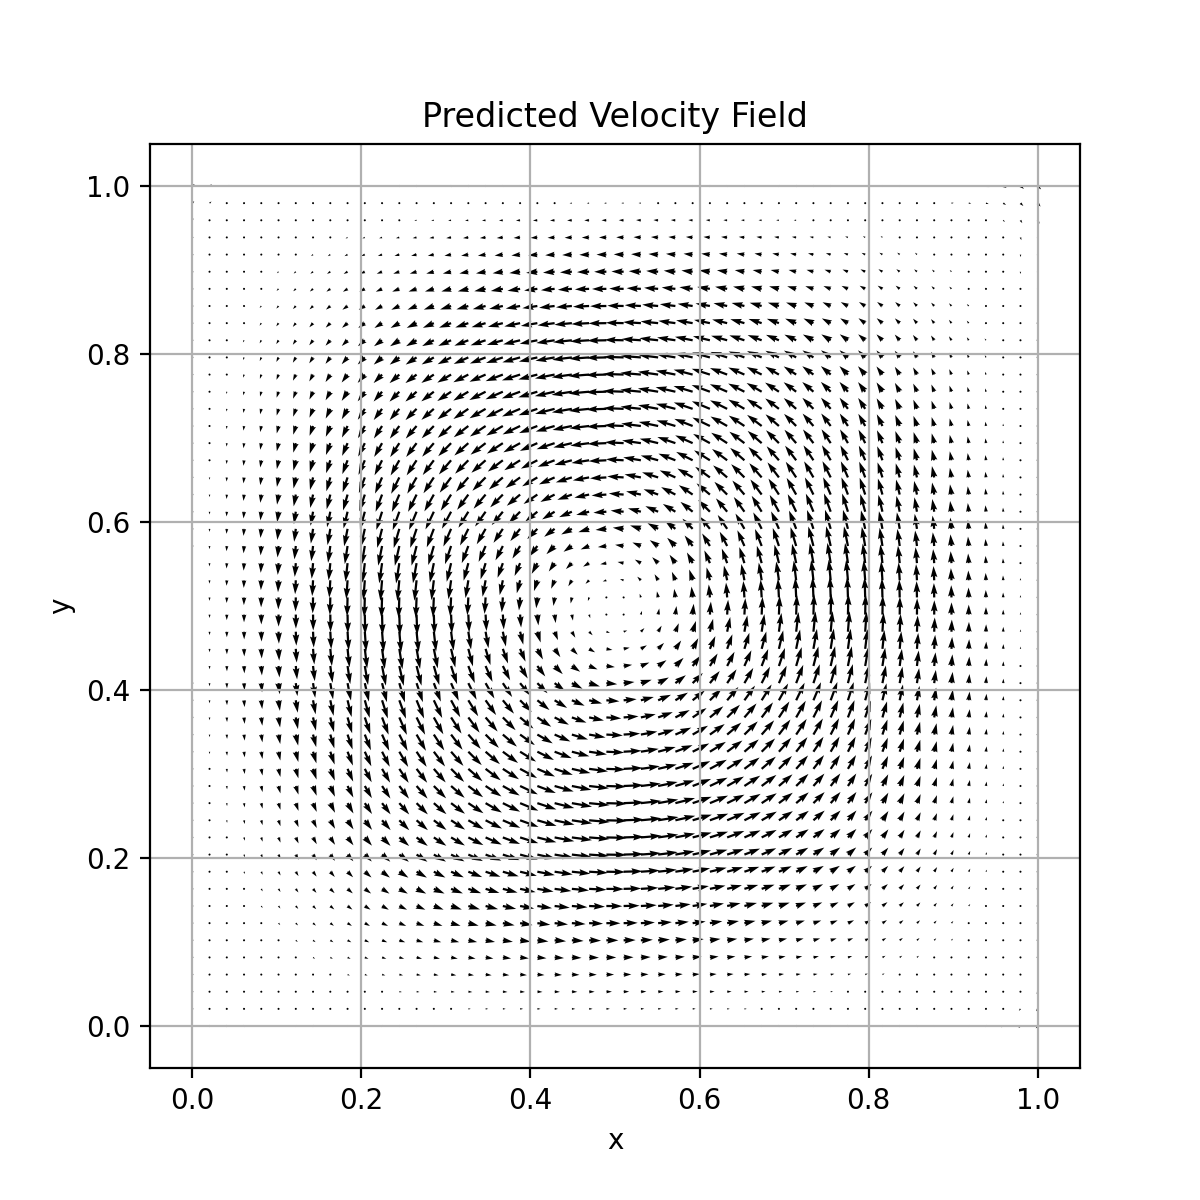
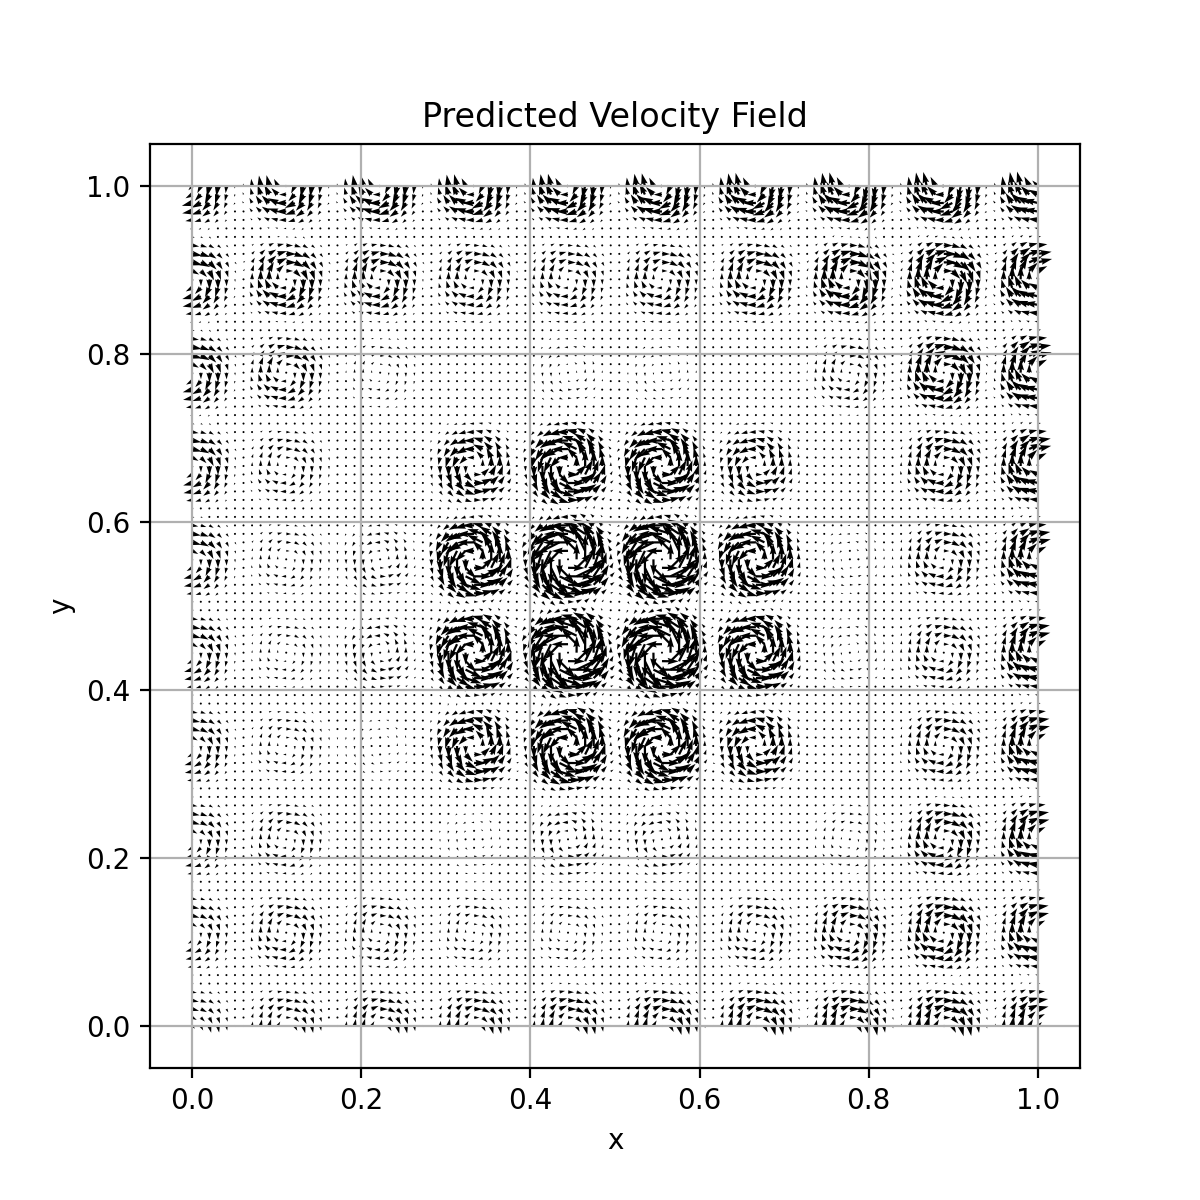
[mesh motion] RBF validation for stream function

Changed region(s): [[0.1542, 0.1233, 0.8942, 0.8633], [0.1542, 0.8325, 0.185, 0.8633]]

diff --git a/src/displacementSmartSimMotionSolver/pytorchApproximationModels/test_rbf_network_stream_function.py b/src/displacementSmartSimMotionSolver/pytorchApproximationModels/test_rbf_network_stream_function.py
@@ -21,7 +21,7 @@ def compute_velocity(x, y, psi_values):
     v = -dx  # v = -∂ψ/∂x
     return u, v
 
-def visualize_psi(x, y, psi_values, title="Stream Function ψ"):
+def visualize_psi(x, y, psi_values, title="Stream Function", centers=None):
     plt.figure(figsize=(6, 6))
     plt.contourf(x, y, psi_values, levels=20, cmap='viridis')
     plt.colorbar(label='ψ')
@@ -29,6 +29,13 @@ def visualize_psi(x, y, psi_values, title="Stream Function ψ"):
     plt.xlabel('x')
     plt.ylabel('y')
     plt.grid()
+    
+    # Plot centers if provided
+    if centers is not None:
+        centers_np = centers.numpy()  # Convert from torch tensor to numpy
+        plt.scatter(centers_np[:, 0], centers_np[:, 1], color='white', marker='x', s=100, linewidths=2, label='Centers')
+        plt.legend()
+    
     fig_name = title.replace(" ", "-")
     plt.savefig(f"{fig_name}.png", dpi=200)
 
@@ -54,7 +61,7 @@ def generate_centers(num_centers):
 
 def main():
     # Generate training data
-    num_points = 50
+    num_points = 10
     x = np.linspace(0, 1, num_points)
     y = np.linspace(0, 1, num_points)
     X, Y = np.meshgrid(x, y)
@@ -66,15 +73,17 @@ def main():
     y_train = torch.tensor(psi_train, dtype=torch.float32)
 
     # Generate centers
-    centers = generate_centers(8).clone().detach()
-    r_max = 0.5
+    # centers = generate_centers(32).clone().detach()
+    centers = x_train 
+    print(centers.shape)
+    r_max = 0.1 
     smoothness = 4  # C^4 smoothness
 
     # Initialize model
     model = WendlandLinearNetwork(centers, r_max, smoothness)
 
     # Optimizer and loss
-    optimizer = optim.Adam(model.parameters(), lr=0.02)
+    optimizer = optim.Adam(model.parameters(), lr=0.05)
     criterion = nn.MSELoss()
 
     # Training loop
@@ -87,32 +96,45 @@ def main():
         loss.backward()
         optimizer.step()
 
-        if loss.item() < 1e-05:
+        if loss.item() < 1e-12:
             print(f"Stopping early at epoch {epoch + 1} due to reaching loss {loss.item()} < 1e-05")
             break
 
         if ((epoch == 1) or ((epoch + 1) % 50 == 0)):
             print(f'Epoch [{epoch + 1}/{epochs}], Loss: {loss.item():.14f}')
 
-    # Evaluate predictions
+    # Generate validation data
+    num_points = 100
+    x_val = np.linspace(0, 1, num_points)
+    y_val = np.linspace(0, 1, num_points)
+    X_val, Y_val = np.meshgrid(x_val, y_val)
+    xy_val = np.column_stack((X_val.flatten(), Y_val.flatten()))
+    psi_val = psi(X_val, Y_val)
+
+    # Evaluate predictions at validation points
     model.eval()
     with torch.no_grad():
-        pred = model(x_train).numpy()
+        x_val = torch.tensor(xy_val, dtype=torch.float32)
+        pred = model(x_val).numpy()
 
     # Reshape for visualization
-    psi_pred = pred.reshape(X.shape)
-    psi_actual = psi(X, Y)
+    psi_pred = pred.reshape(X_val.shape)
+    #psi_actual = psi(X_val, Y_val)
 
     # Visualize actual and predicted stream functions
-    visualize_psi(X, Y, psi_actual, title="Actual Stream Function")
-    visualize_psi(X, Y, psi_pred, title="Predicted Stream Function")
+    visualize_psi(X_val, Y_val, psi_val, title="Actual Stream Function")
+    visualize_psi(X_val, Y_val, psi_pred, title="Predicted Stream Function")
+
+    visualize_psi(X_val, Y_val, np.abs(psi_pred - psi_val), 
+                  title="Stream Function Approximation Error", 
+                  centers=centers)
 
     # Compute and visualize actual and predicted velocity fields
-    u_actual, v_actual = compute_velocity(X, Y, psi_actual)
-    visualize_velocity_field(X, Y, u_actual, v_actual, title="Actual Velocity Field")
+    u_val, v_val = compute_velocity(X_val, Y_val, psi_val)
+    visualize_velocity_field(X_val, Y_val, u_val, v_val, title="Actual Velocity Field")
 
-    u_pred, v_pred = compute_velocity(X, Y, psi_pred)
-    visualize_velocity_field(X, Y, u_pred, v_pred, title="Predicted Velocity Field")
+    u_pred, v_pred = compute_velocity(X_val, Y_val, psi_pred)
+    visualize_velocity_field(X_val, Y_val, u_pred, v_pred, title="Predicted Velocity Field")
 
 if __name__ == "__main__":
     main()

diff --git a/src/displacementSmartSimMotionSolver/pytorchApproximationModels/rbf_network.py b/src/displacementSmartSimMotionSolver/pytorchApproximationModels/rbf_network.py
@@ -29,18 +29,13 @@ class WendlandLinearNetwork(nn.Module):
         self.a = nn.Parameter(torch.zeros(self.dimension))
 
     def rbf(self, x):
-        """
-        Correct explicit Wendland polynomial RBF (d=2, k=2).
-        """
         r = torch.cdist(x, self.centers) / self.r_max
         mask = (r < 1).float()
         rm = (1 - r).clamp(min=0.0)
-        
-        phi = (1 + 6*r + (35/3)*r**2) * (mask * (1 - r).pow(6))
-        phi = mask * (1 + 6 * r + (35/3) * r**2) * rm**6
-        phi = phi * mask  # strictly enforce compact support
-        
-        return phi
+
+        phi = (1 + 6*r + (35/3)*r**2) * rm**6  # Only compute once
+        return phi * mask  # Ensure compact support
+
 
     def forward(self, x):
         """
